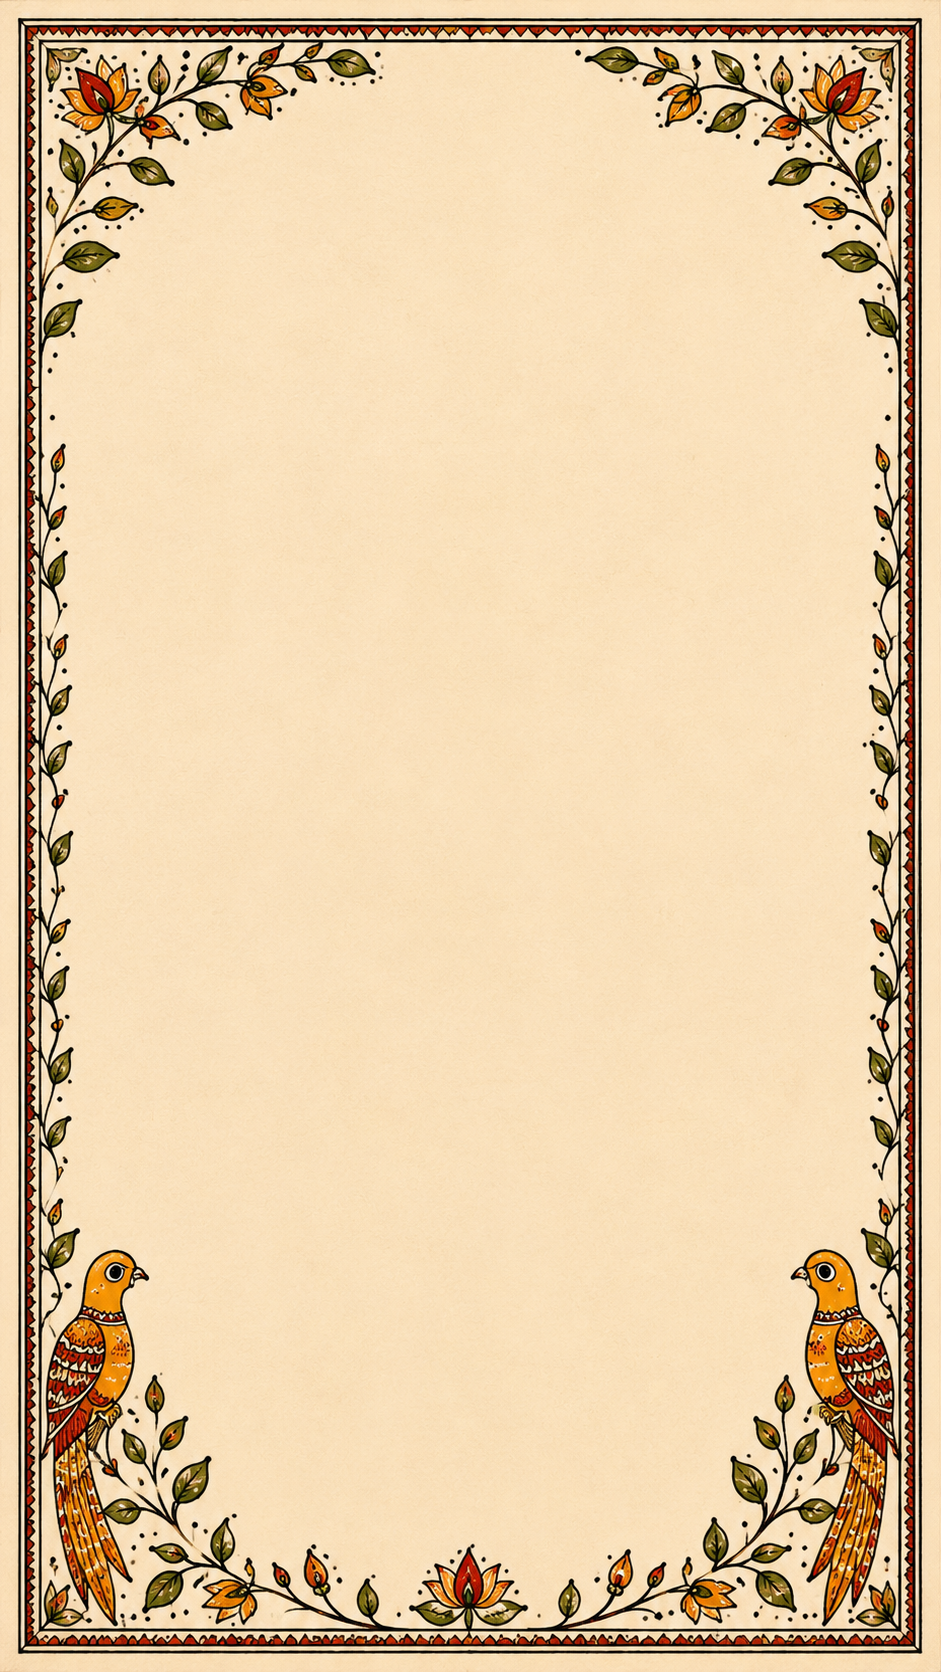
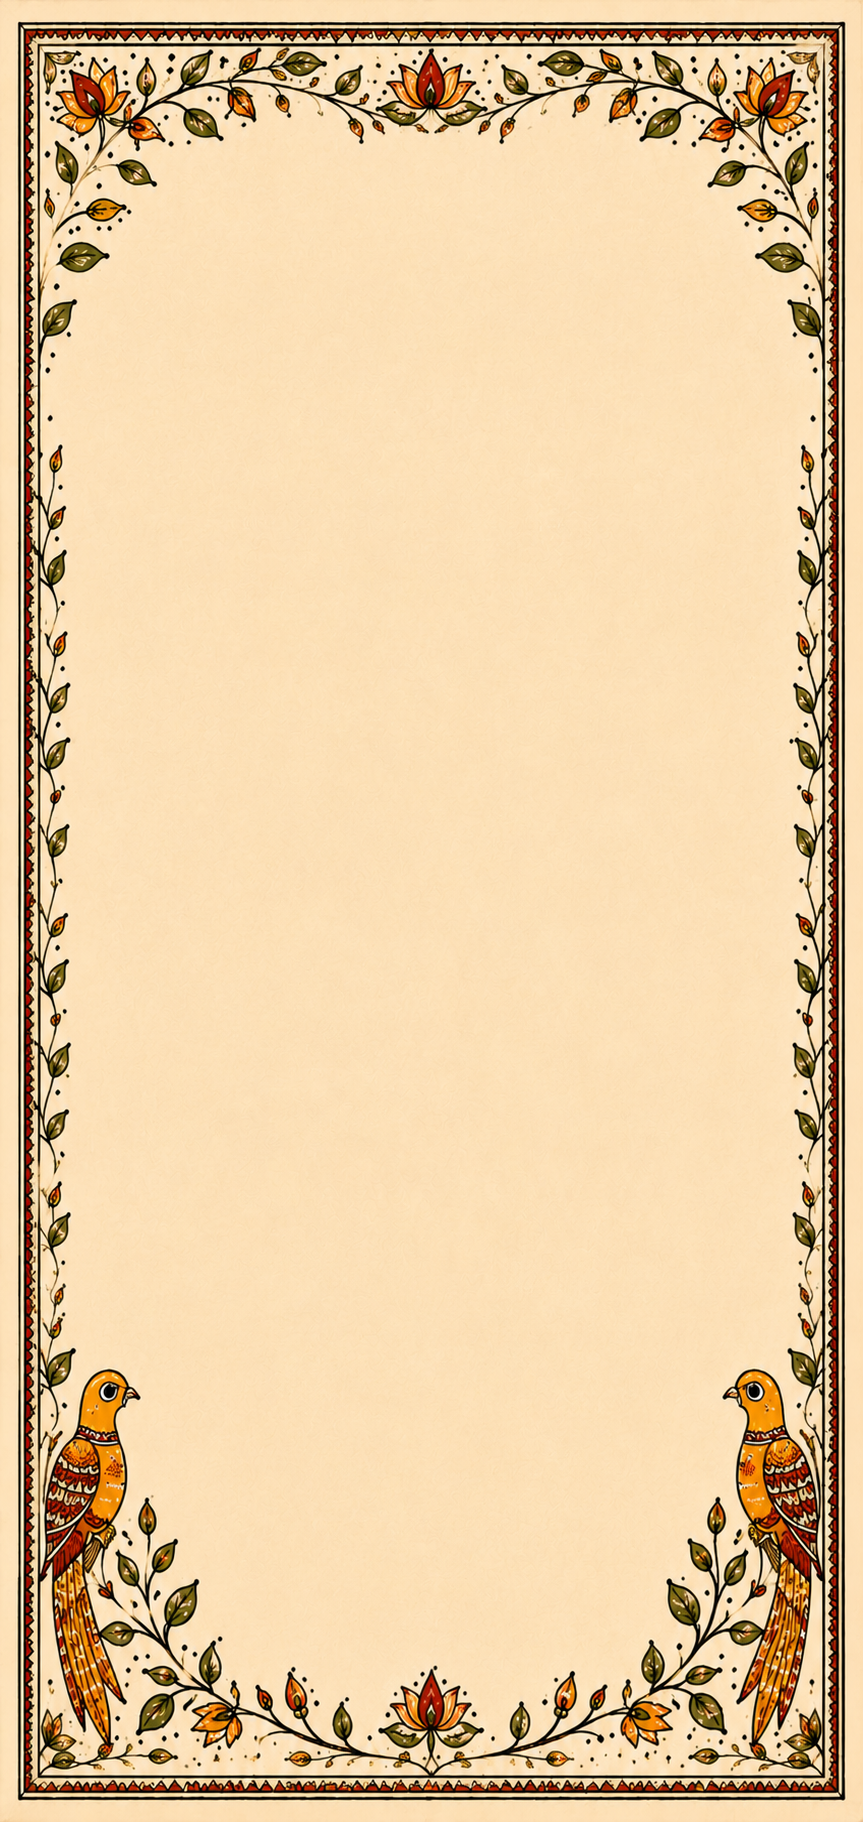
update

Changed region(s): [[0.0, 0.0, 0.9942, 0.9952]]

diff --git a/frontend/src/pages/Home.js b/frontend/src/pages/Home.js
@@ -512,8 +512,8 @@ backgroundImage:
 window.innerWidth <= 768
 
 ? `linear-gradient(
-rgba(0,0,0,0.10),
-rgba(0,0,0,0.10)
+rgba(0,0,0,0.05),
+rgba(0,0,0,0.05)
 ),
 url(${mobileBg})`
 
@@ -530,7 +530,7 @@ backgroundRepeat:'no-repeat',
 
 backgroundPosition:
 window.innerWidth <= 768
-? 'center top'
+? 'top center'
 : 'top center',
 
 backgroundColor:'#111436'
@@ -546,24 +546,41 @@ cursor:'pointer'
 }),
 
 navbar:(theme)=>({
+
 position:'sticky',
 top:0,
 zIndex:999,
+
 display:'flex',
 justifyContent:'space-between',
 alignItems:'center',
-padding:'10px 18px',
-minHeight:'70px',
-flexWrap:'wrap',
 
+padding:'10px 18px',
+
+height:'70px',
+
+flexWrap:'wrap',
 background:
+window.innerWidth <= 768
+? theme==="dark"
+? 'rgba(15, 23, 42, 0.72)'
+: 'rgba(226, 226, 207, 0.83)'
+:
 theme==="dark"
 ? 'rgba(15, 23, 42, 0.72)'
 : 'rgba(226, 226, 207, 0.83)',
 
-backdropFilter:'blur(12px)',
+backdropFilter:
+window.innerWidth <= 768
+? 'blur(1px)'
+: 'blur(2px)',
 
 borderBottom:
+window.innerWidth <= 768
+? theme==="dark"
+? '1px solid rgba(255,255,255,0.08)'
+: '1px solid rgba(0,0,0,0.06)'
+:
 theme==="dark"
 ? '1px solid rgba(255,255,255,0.08)'
 : '1px solid rgba(0,0,0,0.06)',
@@ -623,32 +640,51 @@ color: theme==="dark" ? "#c2c4eb": "#161720",
 }),
 
 centerBox:{
-minHeight:'95vh',
+minHeight:'calc(100vh - 90px)',
 display:'flex',
 justifyContent:'center',
 alignItems:'center',
-padding:'20px'
+padding:'20px',
+paddingTop:'0px',
+marginTop:
+window.innerWidth <= 768
+? '-20px'
+: '0px',
+marginBottom:
+window.innerWidth <= 768
+? '20px'
+: '0px',
 },
 
 glass:{
-padding:'50px',
+padding: window.innerWidth <= 768 ? '25px' : '18px',
 display:'flex',
 flexDirection:'column',
 alignItems:'center',
 textAlign:'center',
 background:'rgba(255,255,255,0.14)',
-backdropFilter:'blur(12px)',
-borderRadius:'30px',
-width:'90%',
-maxWidth:'650px',
-boxShadow:'0 0 30px rgba(0,0,0,0.18)'
+backdropFilter:'blur(2px)',
+borderRadius:'28px',
+width: window.innerWidth <= 768 ? '275px' : '650px',
+maxWidth: window.innerWidth <= 768 ? '360px' : '700px',
+height: window.innerWidth <= 768 ? '390px' : '350px',
+maxHeight: window.innerWidth <= 768 ? '400px' : '450px',
+boxShadow:
+window.innerWidth <= 768
+? '0 0 18px rgba(0,0,0,0.12)'
+: '0 0 30px rgba(0,0,0,0.18)',
 },
 
 heading:(theme)=>({
-fontSize:'clamp(42px,7vw,78px)',
+fontSize:
+window.innerWidth <= 768
+? '48px'
+: '68px',
+
 marginBottom:'10px',
 lineHeight:'1.1',
 textAlign:'center',
+
 color:theme==="dark"
 ? "#171f68"
 : "#0986e5f4",
@@ -664,10 +700,16 @@ color:theme==="dark"
 
 subtext:(theme)=>({
 marginTop:'10px',
-marginBottom:'30px',
-fontSize:'clamp(18px,2vw,28px)',
+marginBottom:'26px',
+
+fontSize:
+window.innerWidth <= 768
+? '18px'
+: '28px',
+
 lineHeight:'1.5',
 textAlign:'center',
+
 color:theme==="dark"
 ? "#2d2d2d"
 : "#6a401ee2",
@@ -797,11 +839,20 @@ border:'none'
 }),
 
 footer:(theme)=>({
-padding:'20px',
+padding:'10px 15px',
+fontSize:'14px',
+blur:'2px',
 textAlign:'center',
-background:'#08090bde',
-color:'#fbfbfcbd',
-marginTop:'auto'
+background:
+theme==="dark" 
+? "#08090bde"
+: "#c8d2f0ea",
+color:theme==="dark" 
+? "#fbfbfcbd"
+: "#0d0d0de8",
+marginTop:'auto',
+fontWeight:'450',
+marginBottom:'0',
 }),
 
 overlay:{
